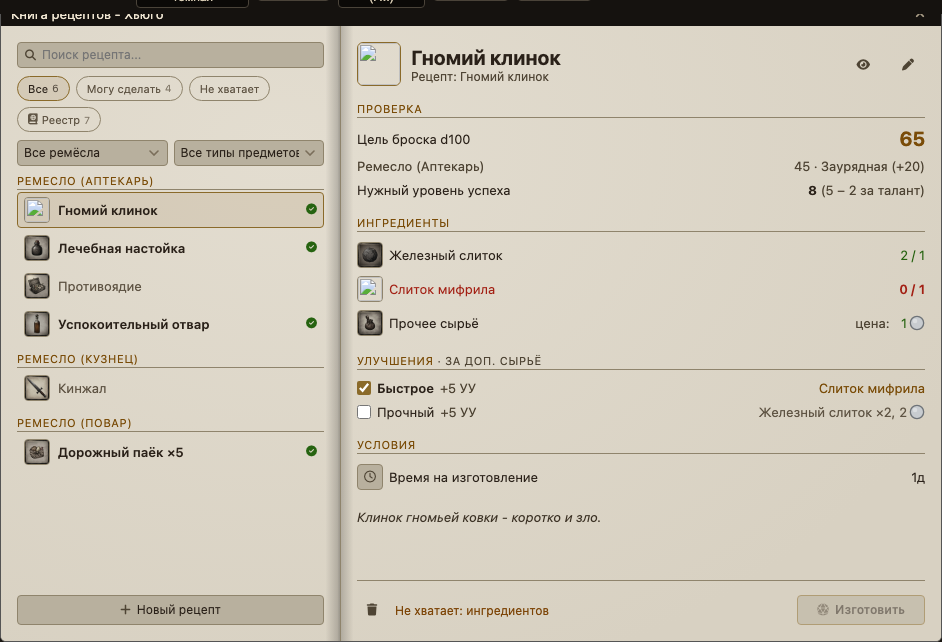
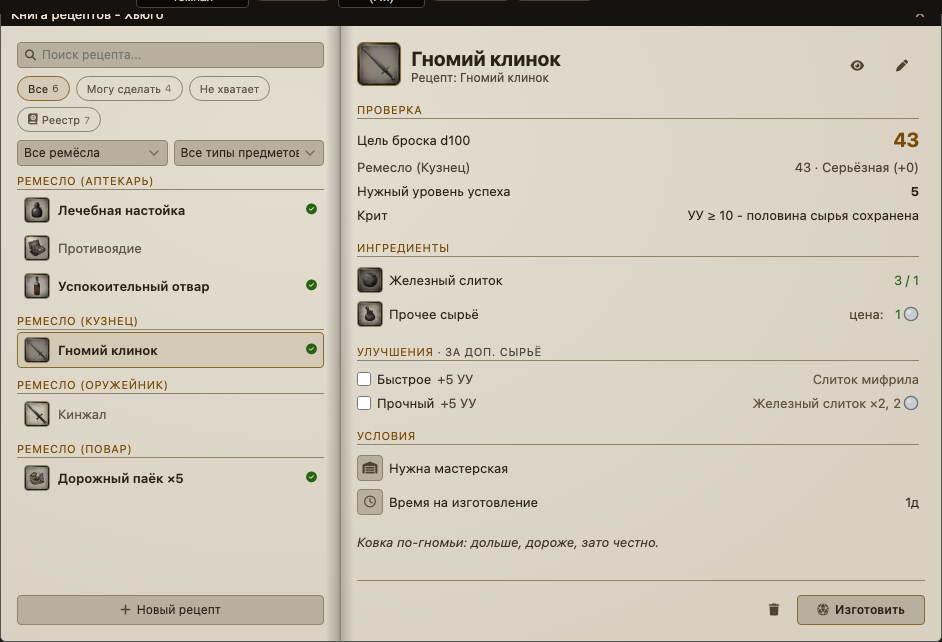
v0.1.22: после крафта выбор остаётся на своём рецепте (не прыгает на первый), демо-рецепт с улучшениями в моке

diff --git a/scripts/recipe-book.js b/scripts/recipe-book.js
@@ -904,10 +904,23 @@ export class RecipeBookApp extends HandlebarsApplicationMixin(ApplicationV2) {
       g.entries.push(e);
     }
 
+    // Помним, из какого рецепта вырос проект: после завершения вернём выбор на него
+    this._projRecipe ??= {};
+    for (const pj of projects) {
+      const rec = this.recipes().find((r) => r.uuid === pj.recipeUuid);
+      if (rec) this._projRecipe[pj.id] = rec.id;
+    }
+
     // Выбранное: по умолчанию первый рецепт
     let detail = null;
     let sel = this.selected;
-    if (sel?.kind === "project" && !projects.find((p) => p.id === sel.id)) sel = null;
+    if (sel?.kind === "project" && !projects.find((p) => p.id === sel.id)) {
+      // Проект завершён или брошен - возвращаемся к его рецепту, а не к первому в списке
+      const backId = sel.recipeId ?? this._projRecipe[sel.id];
+      const back = backId ? this.recipes().find((r) => r.id === backId) : null;
+      sel = back ? { kind: "recipe", id: back.id } : null;
+      if (backId) delete this._projRecipe[backId];
+    }
     if (sel?.kind === "recipe" && !this.recipes().find((r) => r.id === sel.id)) sel = null;
     if (sel?.kind === "wrecipe" && !this.worldRecipes().find((r) => r.id === sel.id)) sel = null;
     if (sel?.kind === "arecipe" && !game.actors?.get?.(sel.actorId)?.items.get(sel.id)) sel = null;
@@ -1092,7 +1105,9 @@ export class RecipeBookApp extends HandlebarsApplicationMixin(ApplicationV2) {
     const recipe = this.actor.items.get(this.selected.id);
     if (!recipe) return;
     const test = await startCraft(this.actor, recipe, this.picked[recipe.id] ?? []);
-    if (test) { this.selected = { kind: "project", id: test.id }; this.render(); }
+    // Если работа закончилась сразу, проекта уже нет - остаёмся на рецепте
+    if (test?.id && this.actor.items.get(test.id)) this.selected = { kind: "project", id: test.id, recipeId: recipe.id };
+    this.render();
   }
 
   static async #onContinue(event, target) {
